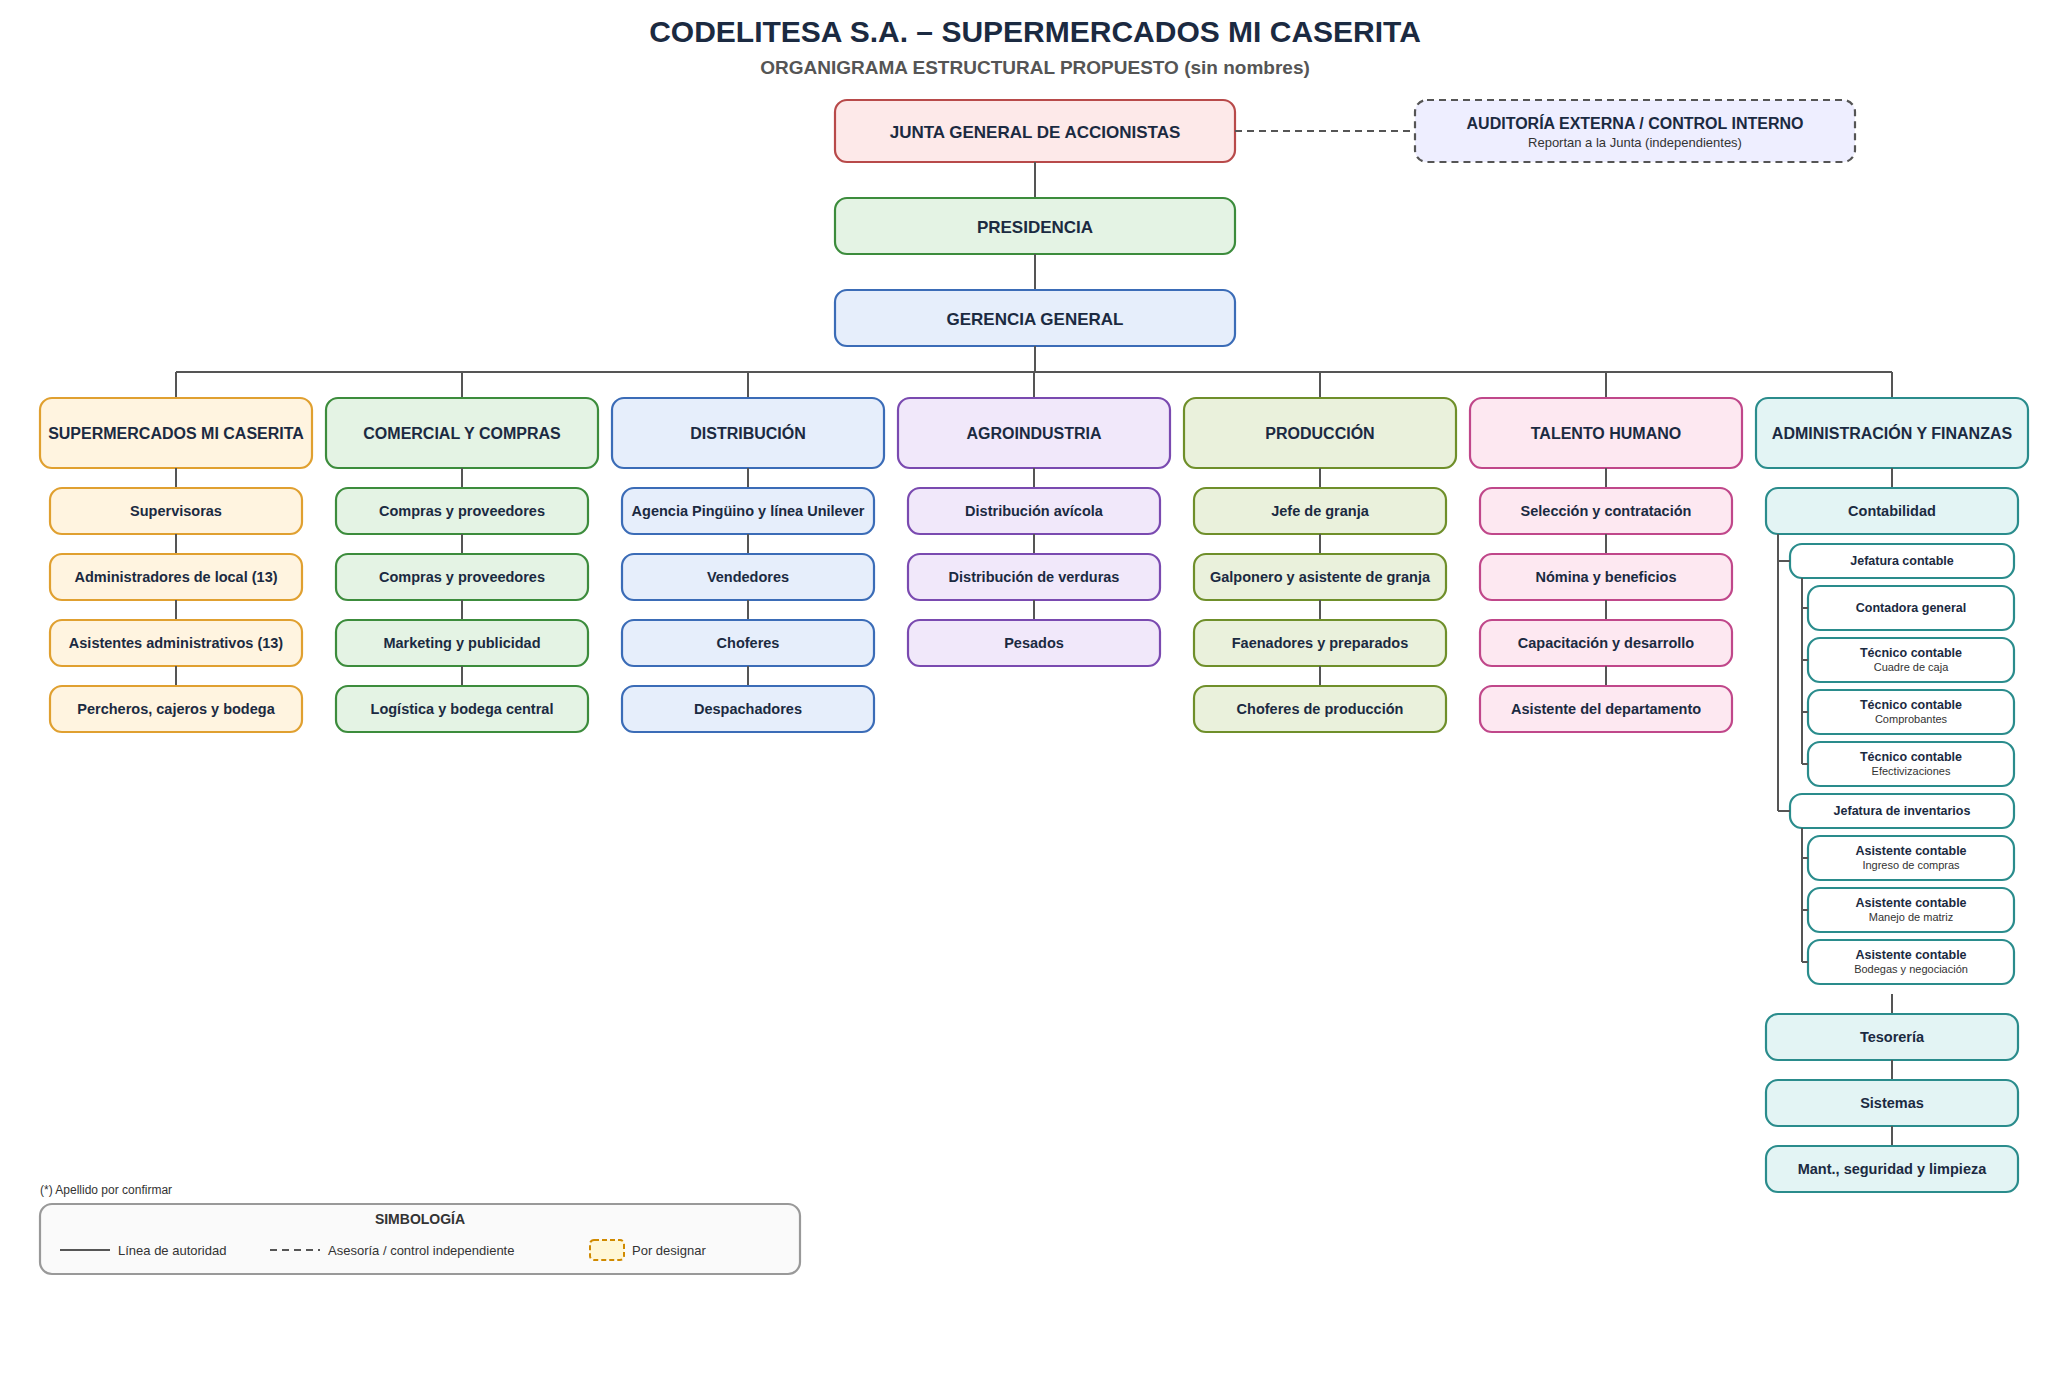
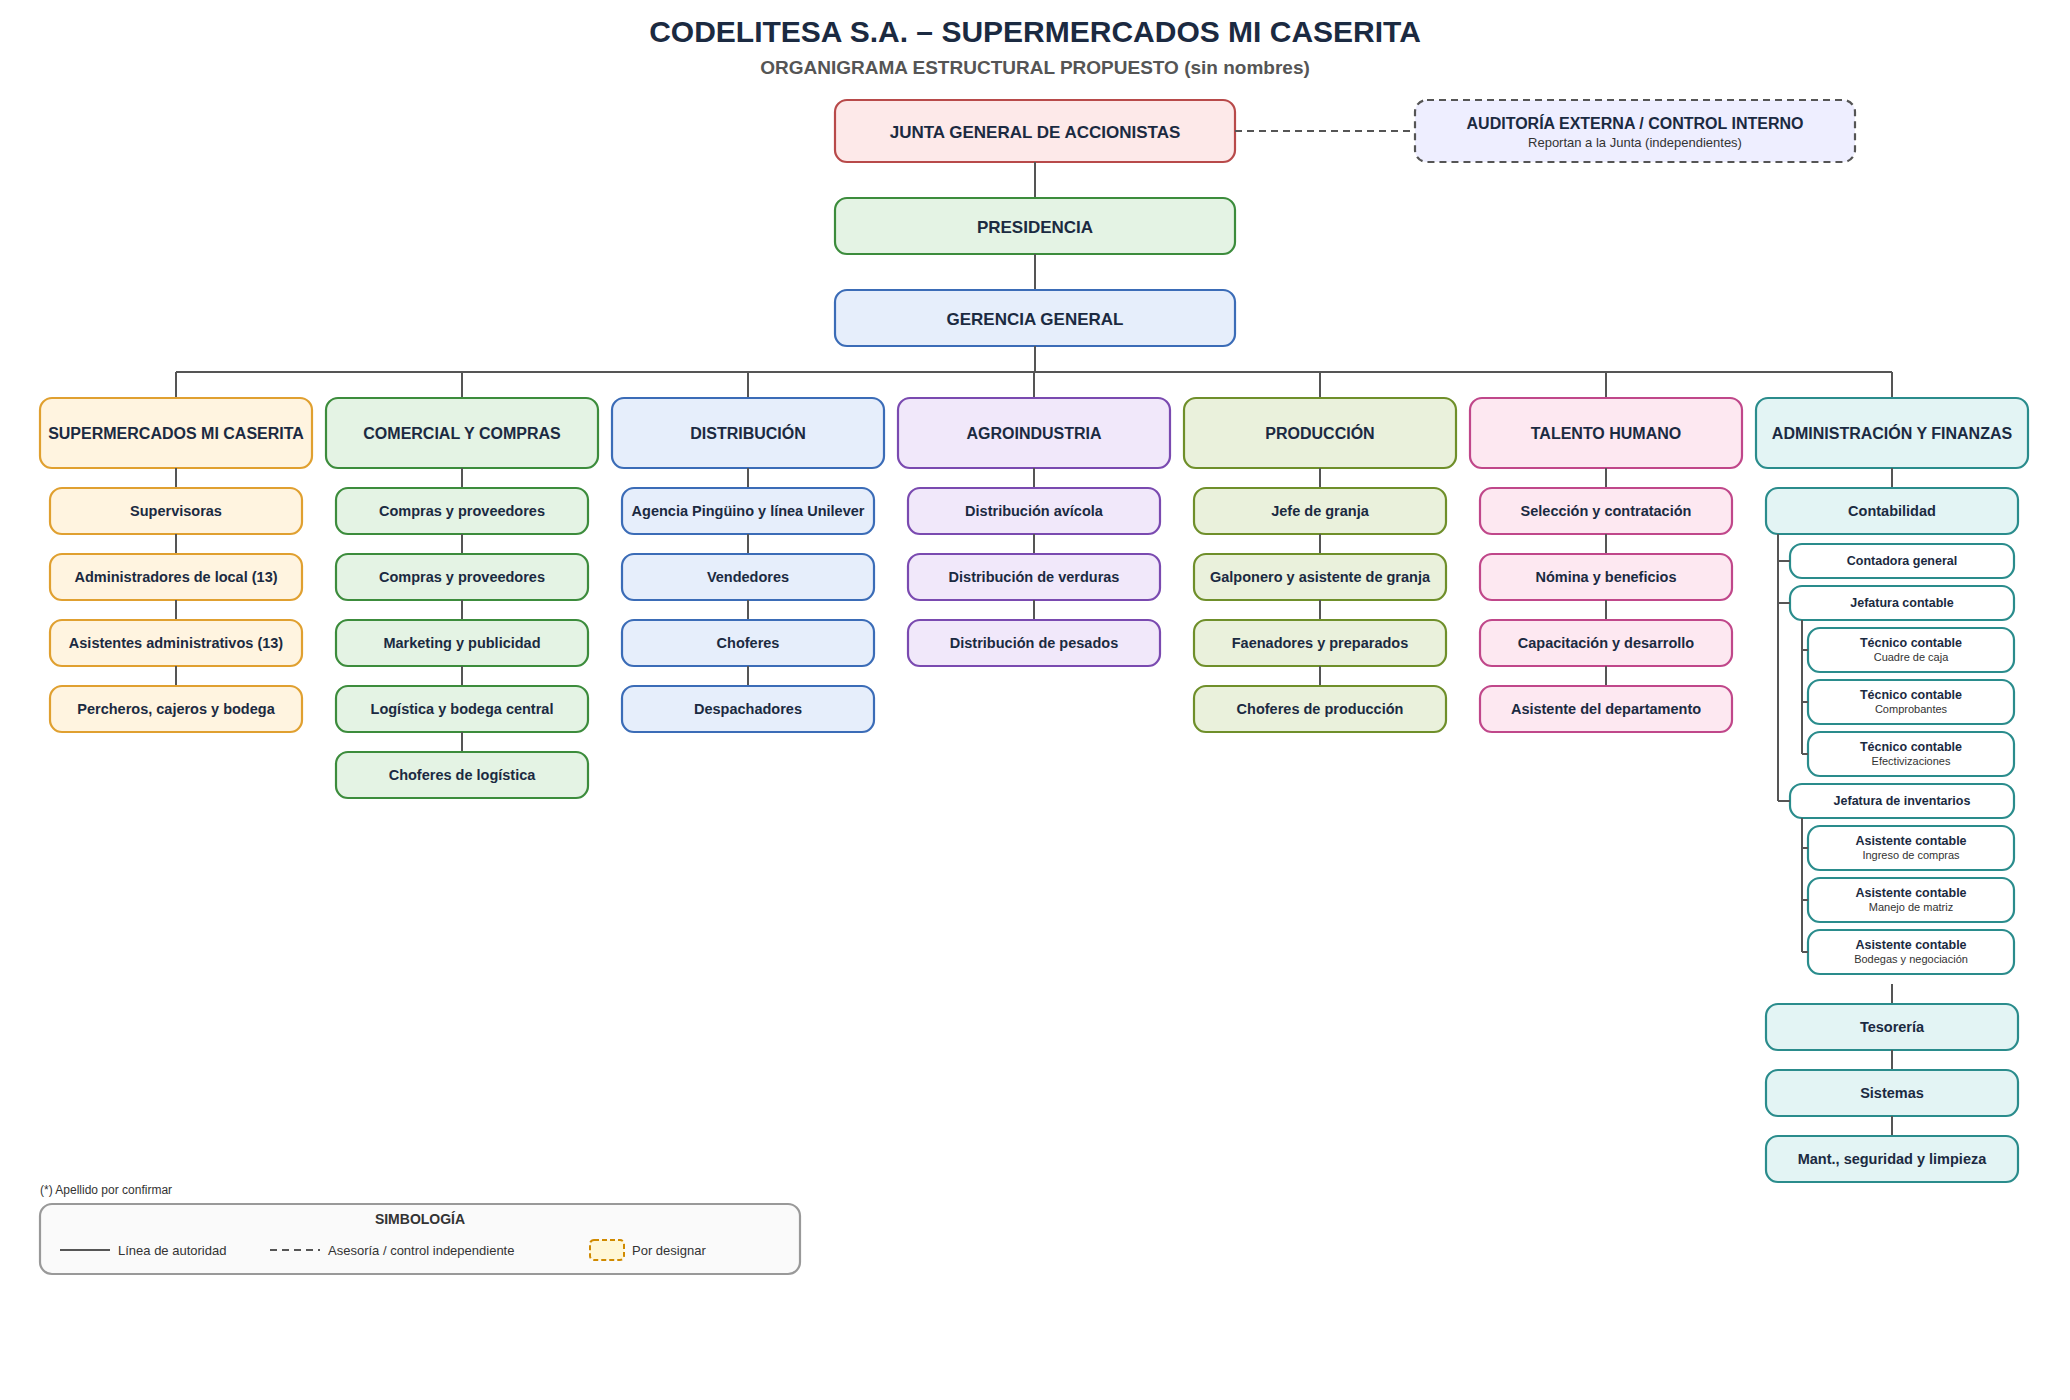
Ajustar Pesados, Contadora general y choferes de logística
Claude-Session: https://claude.ai/code/session_012Bb6M7hyJwwVBojnoHpByV

Changed region(s): [[0.8348, 0.3993, 0.9894, 0.86], [0.1546, 0.5221, 0.3092, 0.5836], [0.4638, 0.43, 0.5256, 0.4607]]

diff --git a/organigrama/gen.py b/organigrama/gen.py
@@ -60,7 +60,8 @@ def build(func):
         ("Compras y proveedores",["Mauro Carvajal","Negociación, compras y precios"],0),
         ("Compras y proveedores",["Verónica Teneda","Negociación, compras y precios"],0),
         ("Marketing y publicidad",["Verónica Teneda (supervisa)","Contrata proveedor externo de marketing"],0),
-        ("Logística y bodega central",["Jorge Leime","Abastecimiento a los 13 locales"],0)]),
+        ("Logística y bodega central",["Jorge Leime","Abastecimiento a los 13 locales"],0),
+        ("Choferes de logística",["Por designar","Transporte a los 13 locales"],1)]),
      ("DISTRIBUCIÓN",["Luis David Teneda","Jefe de Agencia Pingüino y","línea Unilever"],"",[
         ("Agencia Pingüino y línea Unilever",["Administrador: Juan Carlos Vallejo","Rutas, cartera y cadena de frío"],0),
         ("Vendedores",["Por designar","Venta en ruta y atención a clientes"],1),
@@ -69,7 +70,7 @@ def build(func):
      ("AGROINDUSTRIA",["Por designar","Distribución, pesado y empaque","para los locales"],"",[
         ("Distribución avícola",["Alexis Chiluiza y Javier (*)","Distribución del pollo"],0),
         ("Distribución de verduras",["Rocío Gamboa y Luis Padilla (*)","Abastecimiento de verduras"],0),
-        ("Pesados",["Alexis Chiluiza y Javier (*)","Pesan avena, fideos, arroz a granel","y empacan en varios gramajes"],0)]),
+        ("Distribución de pesados",["Alexis Chiluiza y Javier (*)","Pesan avena, fideos, arroz a granel","y empacan en varios gramajes"],0)]),
      ("PRODUCCIÓN",["Crianza y faenamiento de pollo:","granja, proceso y transporte"],"",[
         ("Jefe de granja",["Oliver Tipán","Coordinación de la granja,","bioseguridad y personal"],0),
         ("Galponero y asistente de granja",["Por designar","Cuidado de aves,","alimentación y registros"],1),
@@ -82,8 +83,8 @@ def build(func):
         ("Asistente del departamento",["Por designar","Apoyo administrativo a Talento Humano"],1)]),
      ("ADMINISTRACIÓN Y FINANZAS",["Martha Hidalgo","Jefa financiera","Servicios administrativos y de apoyo"],"",[
         ("Contabilidad",["2 jefaturas (contable e inventarios)","y 7 puestos de equipo"],0,[
+            ("Contadora general",["Verónica Teneda"],0,1),
             ("Jefatura contable",["Martha Ramírez"],0,1),
-            ("Contadora general",["Verónica Teneda"],0,2),
             ("Técnico contable",["Cuadre de caja","Por designar"],1,2),
             ("Técnico contable",["Comprobantes","Por designar"],1,2),
             ("Técnico contable",["Efectivizaciones","Por designar"],1,2),
